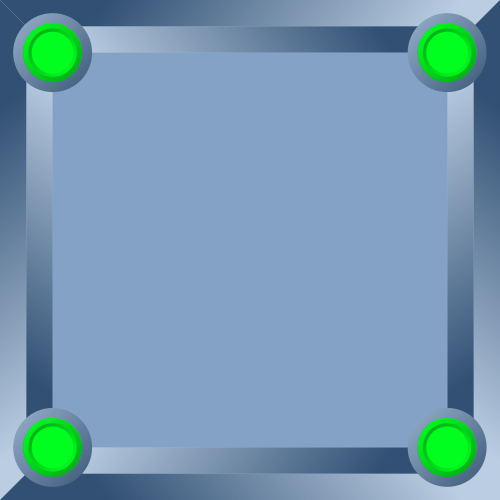
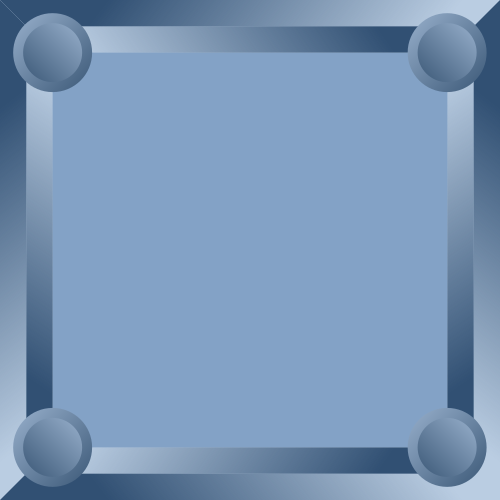
Implemented part temperature display

diff --git a/Assets/Code/UI/ReactorGridCellUIController.cs b/Assets/Code/UI/ReactorGridCellUIController.cs
@@ -6,6 +6,10 @@ public class ReactorGridCellUIController : MonoBehaviour
 {
     public Image partIcon;
 
+    public Image temperatureMeterImage;
+
+    public Gradient temperatureGradient;
+
     public ClickTrigger clickTrigger;
 
     public int cellIndex { get; private set; }
@@ -52,5 +56,10 @@ public class ReactorGridCellUIController : MonoBehaviour
     {
         partIcon.enabled = this.part != null;
         partIcon.sprite = this.part?.Def.uiIcon;
+    }
+
+    public void SetTemperature(float temperature)
+    {
+        temperatureMeterImage.color = temperatureGradient.Evaluate(temperature);
     }
 }

diff --git a/Assets/Code/UI/ReactorGridUIController.cs b/Assets/Code/UI/ReactorGridUIController.cs
@@ -60,6 +60,7 @@ public class ReactorGridUIController : MonoBehaviour
         foreach (var cell in cells)
         {
             cell.UpdatePart(reactor.GetPart(cell.cellIndex));
+            cell.SetTemperature(Reactor.GetNormalizedHeat(reactor.GetCellHeat(cell.cellIndex)));
         }
     }
 }
